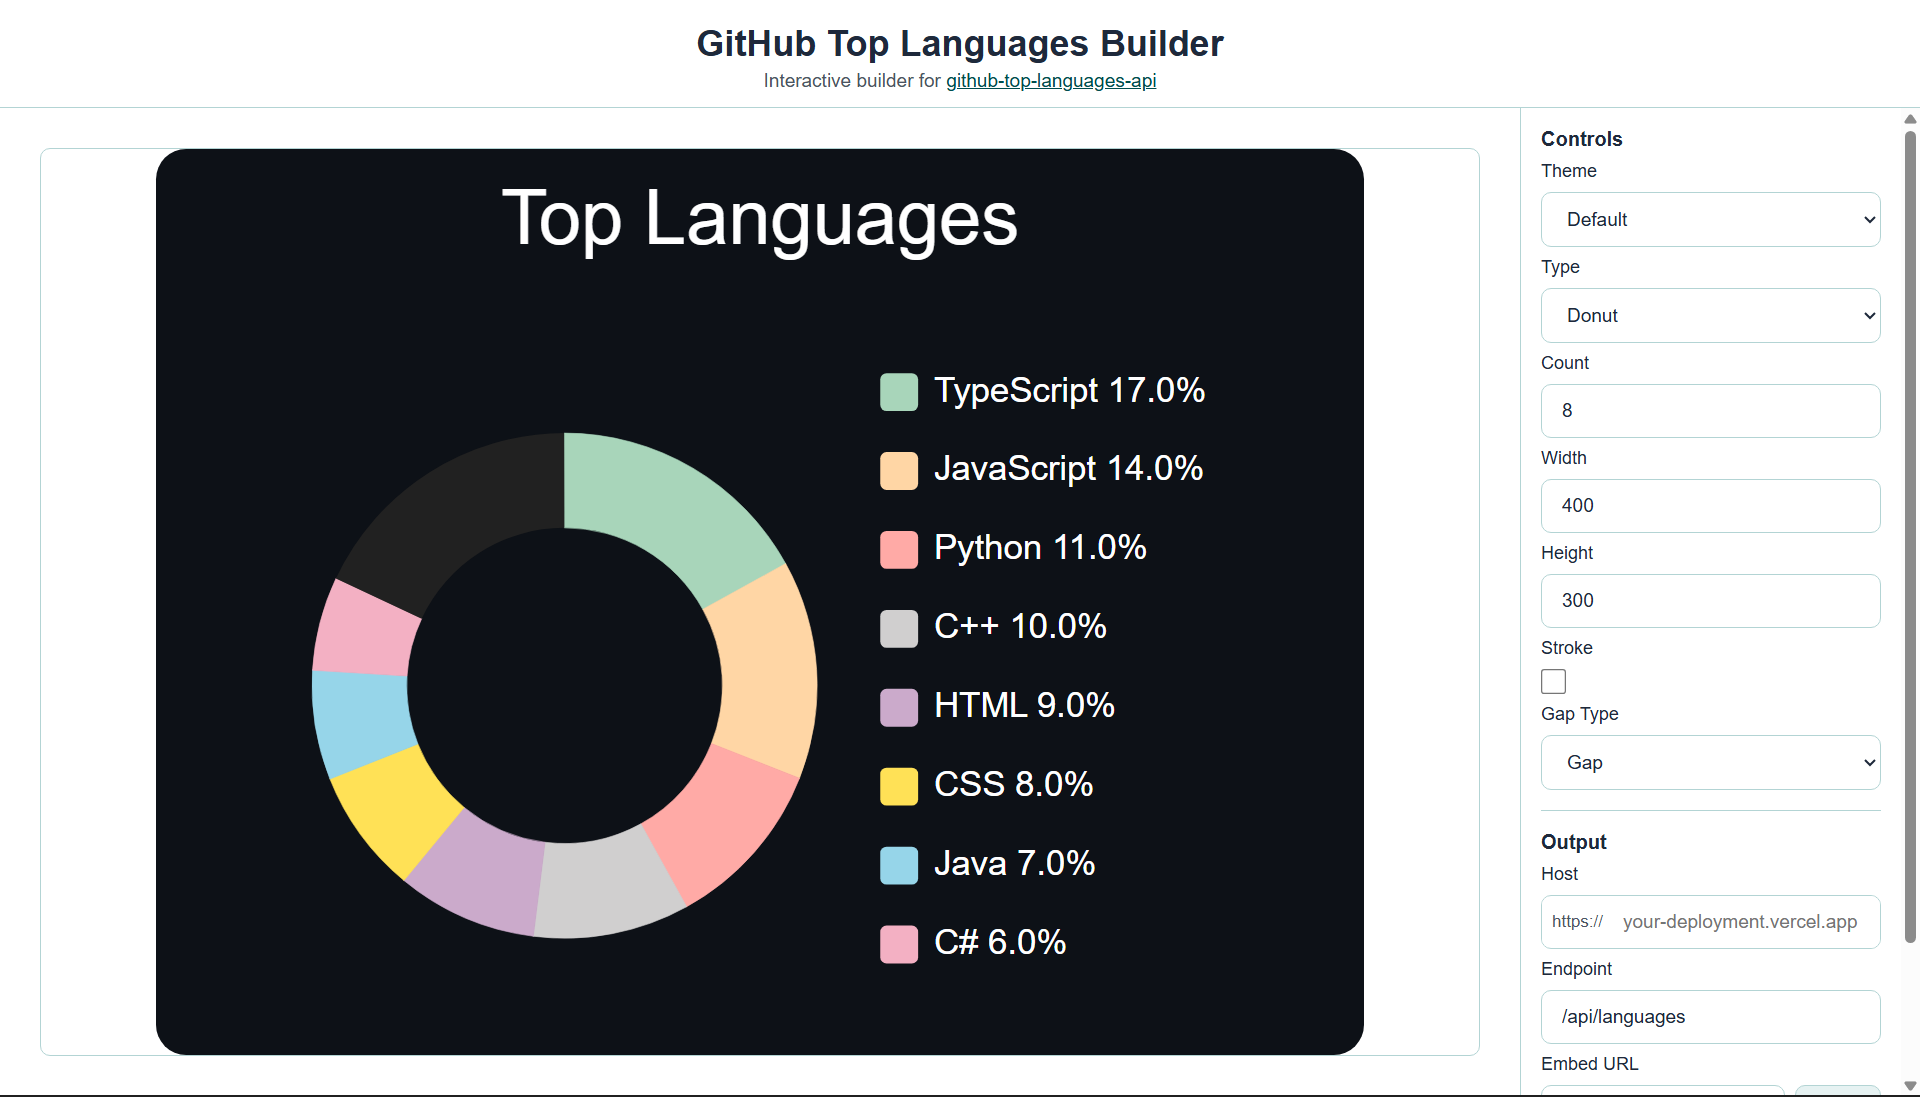
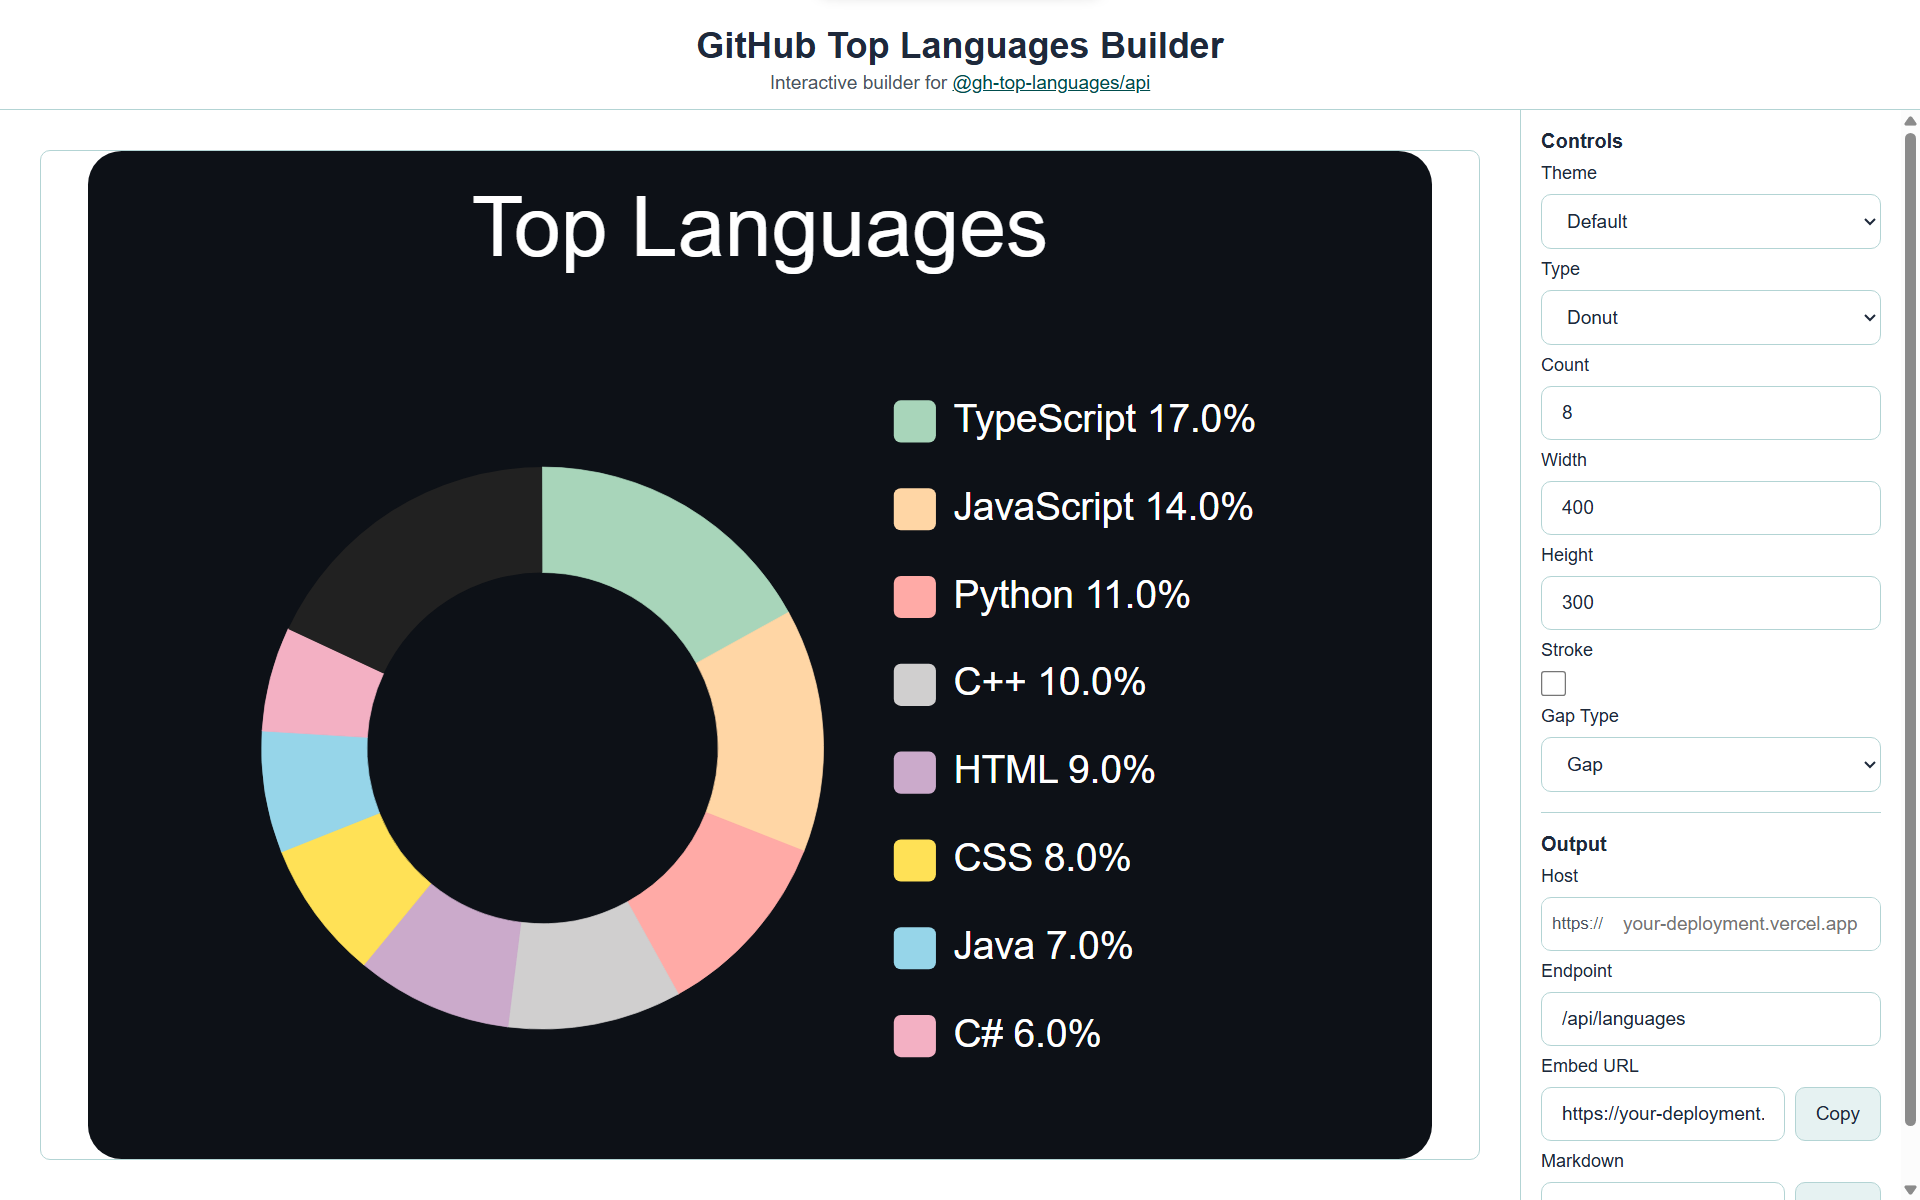
chore: update image/link

diff --git a/src/index.html b/src/index.html
@@ -15,7 +15,7 @@
 <body>
   <header>
     <h1>GitHub Top Languages Builder</h1>
-    <p>Interactive builder for <a href="https://github.com/gh-top-languages/api" target="_blank" rel="noopener noreferrer">@gh-top-languages-api</a></p>
+    <p>Interactive builder for <a href="https://github.com/gh-top-languages/api" target="_blank" rel="noopener noreferrer">@gh-top-languages/api</a></p>
   </header>
   <main class="page">
     <section class="preview">